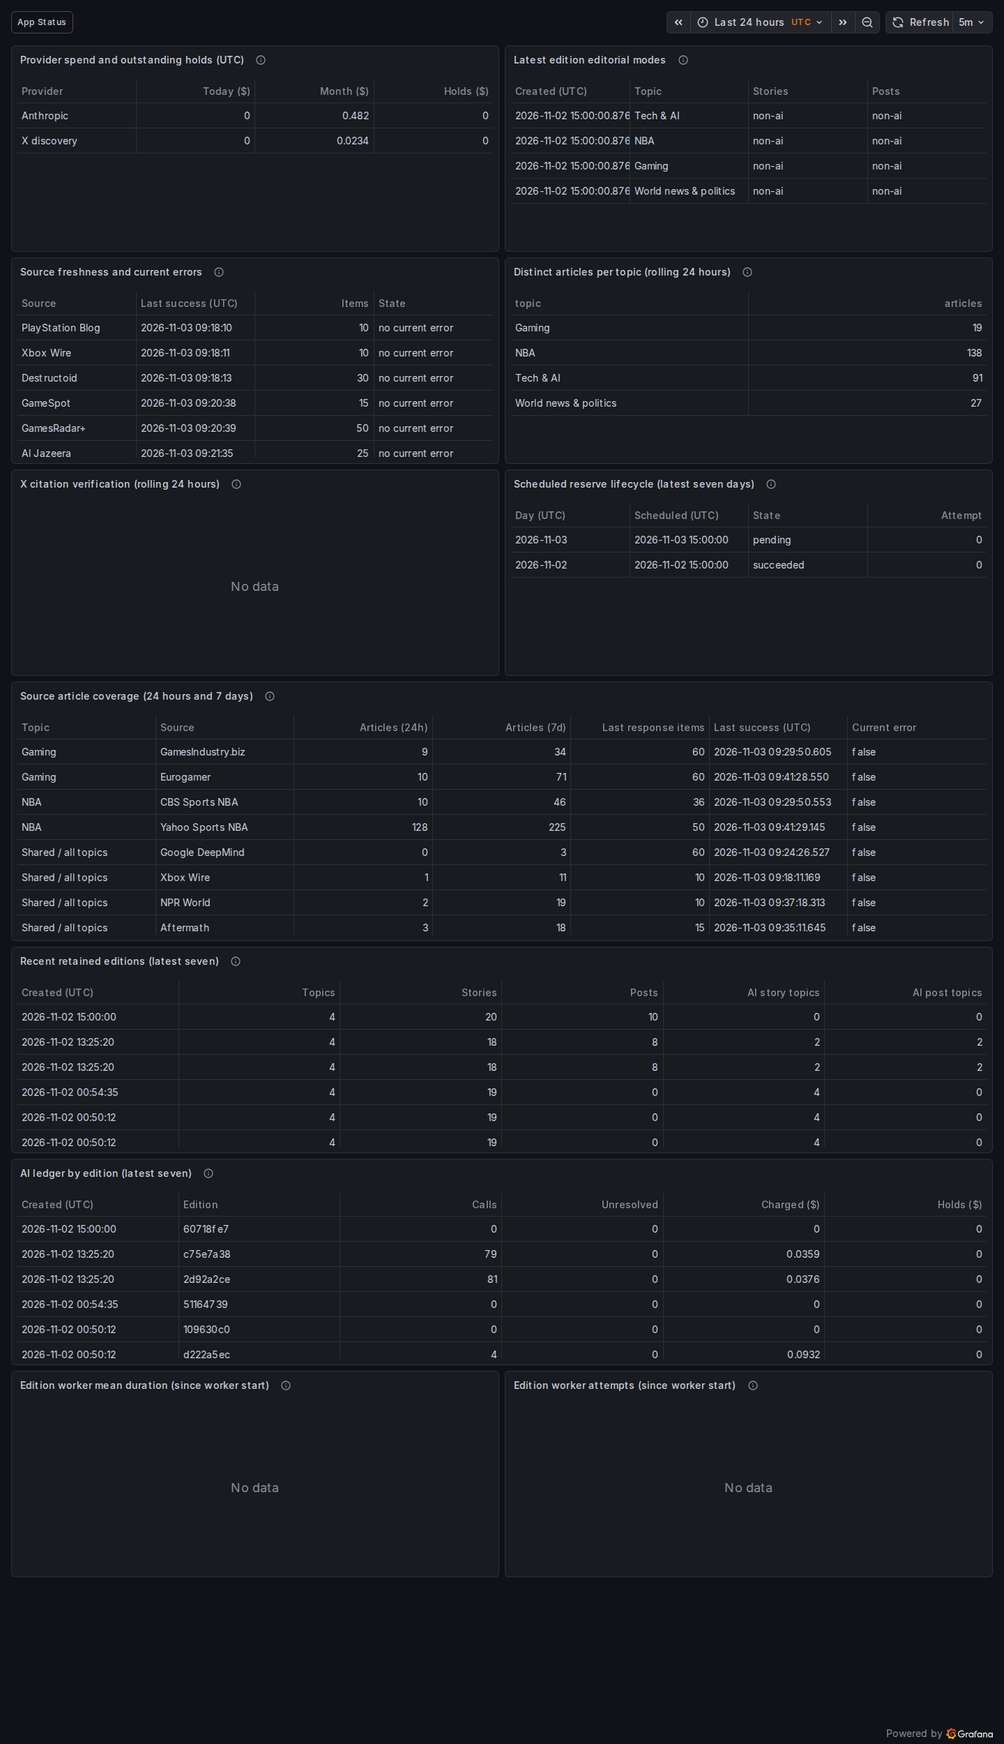
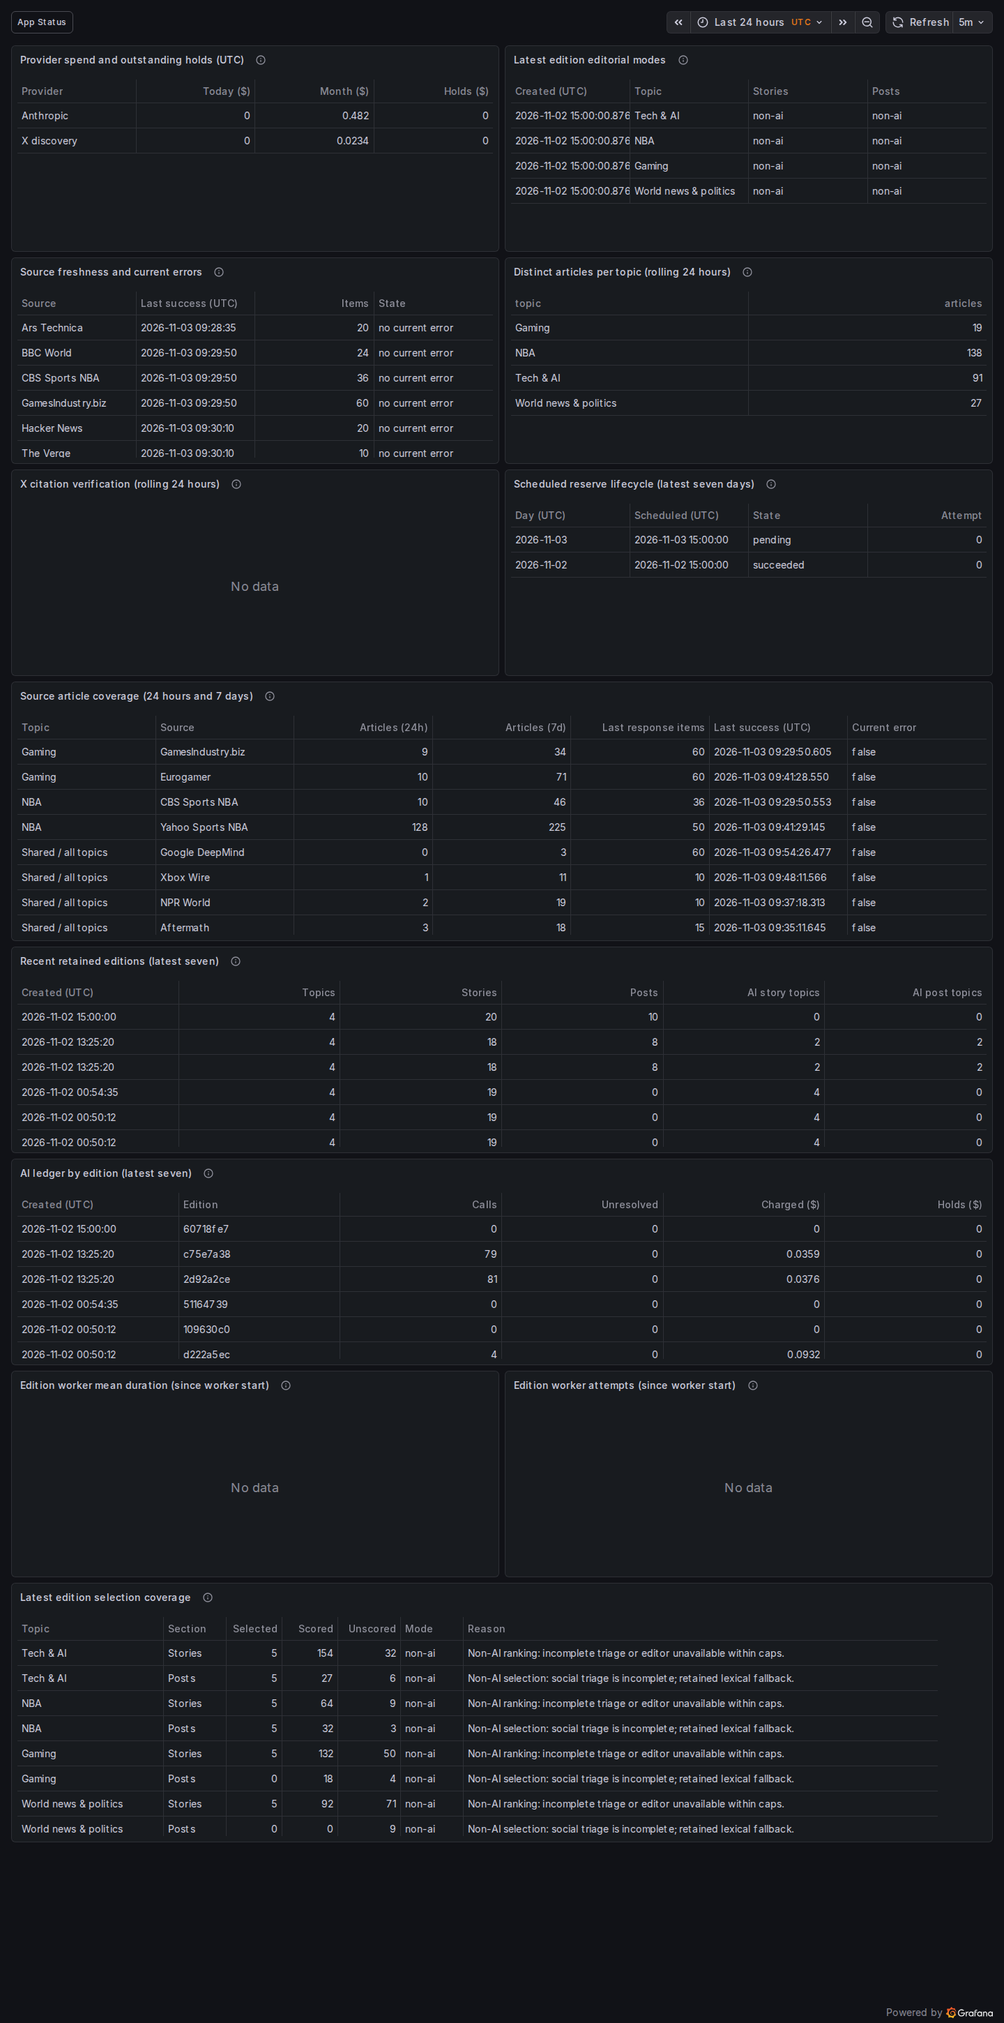
Show retained edition selection coverage in Product dashboard

diff --git a/scripts/lib/check-grafana.ts b/scripts/lib/check-grafana.ts
@@ -249,7 +249,7 @@ export async function checkGrafana() {
         width: 1440,
         height:
           dashboard.uid === 'nd-product'
-            ? 2500
+            ? 2900
             : ['nd-runtime', 'nd-redis'].includes(dashboard.uid)
               ? 2100
               : 1100,
@@ -286,6 +286,9 @@ export async function checkGrafana() {
           'Articles (7d)',
           'AI story topics',
           'Charged ($)',
+          'Scored',
+          'Unscored',
+          'Reason',
         ]) {
           const column = page.getByRole('columnheader', { name, exact: true });
           await column.scrollIntoViewIfNeeded();
@@ -425,6 +428,44 @@ export async function checkGrafana() {
     await page.waitForTimeout(1000);
     await page.screenshot({
       path: 'docs/screenshots/grafana-product-timing-mobile.png',
+    });
+    for (let attempt = 0; attempt < 12; attempt++) {
+      if (
+        await page
+          .getByRole('heading', {
+            name: 'Latest edition selection coverage',
+            exact: true,
+          })
+          .count()
+      )
+        break;
+      await page.mouse.wheel(0, 500);
+      await page.waitForTimeout(300);
+    }
+    const selection = page.getByRole('heading', {
+      name: 'Latest edition selection coverage',
+      exact: true,
+    });
+    await selection.scrollIntoViewIfNeeded();
+    await selection.evaluate((node) => node.scrollIntoView({ block: 'start' }));
+    await page.evaluate(() => {
+      for (const element of document.querySelectorAll<HTMLElement>('div')) {
+        if (
+          element.scrollWidth > element.clientWidth &&
+          element.clientWidth > 200
+        )
+          element.scrollLeft = 280;
+      }
+    });
+    await page.waitForTimeout(1500);
+    assert.equal(
+      await page
+        .locator('[data-testid="data-testid Panel status error"]')
+        .count(),
+      0,
+    );
+    await page.screenshot({
+      path: 'docs/screenshots/grafana-product-selection-mobile.png',
     });
     await page.goto(`${base}/d/nd-database?kiosk`, {
       waitUntil: 'networkidle',

diff --git a/PROGRESS.md b/PROGRESS.md
@@ -1,18 +1,8 @@
 # Progress
 
-Archived: [iteration 364](docs/progress-archive/2026-11-03-iteration-364.md), [iteration 363](docs/progress-archive/2026-11-03-iteration-363.md), [iteration 362](docs/progress-archive/2026-11-03-iteration-362.md), [iteration 361](docs/progress-archive/2026-11-03-iteration-361.md), [iteration 360](docs/progress-archive/2026-11-03-iteration-360.md), [iteration 359](docs/progress-archive/2026-11-03-iteration-359.md), [iteration 357](docs/progress-archive/2026-11-03-iteration-357.md), [iteration 356](docs/progress-archive/2026-11-03-iteration-356.md), [iteration 355](docs/progress-archive/2026-11-03-iteration-355.md), [iteration 354](docs/progress-archive/2026-11-03-iteration-354.md), [iteration 353](docs/progress-archive/2026-11-03-iteration-353.md), [iteration 352](docs/progress-archive/2026-11-03-iteration-352.md), [iteration 351](docs/progress-archive/2026-11-03-iteration-351.md), [iteration 350](docs/progress-archive/2026-11-03-iteration-350.md), [iteration 349](docs/progress-archive/2026-11-03-iteration-349.md), [iteration 348](docs/progress-archive/2026-11-03-iteration-348.md), [iteration 347](docs/progress-archive/2026-11-03-iteration-347.md), [iteration 346](docs/progress-archive/2026-11-03-iteration-346.md), [iteration 345](docs/progress-archive/2026-11-03-iteration-345.md), [iteration 344](docs/progress-archive/2026-11-03-iteration-344.md), [iteration 343](docs/progress-archive/2026-11-03-iteration-343.md), [iteration 342](docs/progress-archive/2026-11-03-iteration-342.md), [iteration 341](docs/progress-archive/2026-11-03-iteration-341.md), [iteration 340](docs/progress-archive/2026-11-03-iteration-340.md), [iteration 338](docs/progress-archive/2026-11-03-iteration-338.md), [iteration 337](docs/progress-archive/2026-11-03-iteration-337.md), [iteration 336](docs/progress-archive/2026-11-03-iteration-336.md), [iteration 335](docs/progress-archive/2026-11-03-iteration-335.md), [iteration 334](docs/progress-archive/2026-11-03-iteration-334.md), [iteration 332](docs/progress-archive/2026-11-03-iteration-332.md), [iteration 331](docs/progress-archive/2026-11-03-iteration-331.md), [iteration 330](docs/progress-archive/2026-11-03-iteration-330.md), [iteration 329](docs/progress-archive/2026-11-03-iteration-329.md), [iteration 328](docs/progress-archive/2026-11-03-iteration-328.md), [iteration 327](docs/progress-archive/2026-11-03-iteration-327.md), [iteration 326](docs/progress-archive/2026-11-03-iteration-326.md), [iteration 325](docs/progress-archive/2026-11-03-iteration-325.md), [iteration 324](docs/progress-archive/2026-11-03-iteration-324.md), [iteration 321](docs/progress-archive/2026-11-03-iteration-321.md), [iteration 320](docs/progress-archive/2026-11-03-iteration-320.md), [iteration 319](docs/progress-archive/2026-11-03-iteration-319.md), [iterations 317–318](docs/progress-archive/2026-11-03-iterations-317-318.md), [iterations 315–316](docs/progress-archive/2026-11-03-iterations-315-316.md), [iterations 313–314](docs/progress-archive/2026-11-03-iterations-313-314.md), [iterations 311–312](docs/progress-archive/2026-11-03-iterations-311-312.md), [iterations 309–310](docs/progress-archive/2026-11-03-iterations-309-310.md), [iterations 307–308](docs/progress-archive/2026-11-03-iterations-307-308.md), [iterations 305–306](docs/progress-archive/2026-11-03-iterations-305-306.md), [iterations 303–304](docs/progress-archive/2026-11-03-iterations-303-304.md), [iteration 302](docs/progress-archive/2026-11-03-iteration-302.md), [iteration 301](docs/progress-archive/2026-11-03-iteration-301.md), [iteration 300](docs/progress-archive/2026-11-03-iteration-300.md), [iteration 299](docs/progress-archive/2026-11-03-iteration-299.md), [iteration 298](docs/progress-archive/2026-11-03-iteration-298.md), [iteration 297](docs/progress-archive/2026-11-03-iteration-297.md), [iteration 296](docs/progress-archive/2026-11-03-iteration-296.md), [iteration 295](docs/progress-archive/2026-11-03-iteration-295.md), [iteration 294](docs/progress-archive/2026-11-03-iteration-294.md), [iteration 293](docs/progress-archive/2026-11-03-iteration-293.md), [iteration 292](docs/progress-archive/2026-11-03-iteration-292.md), [iteration 291](docs/progress-archive/2026-11-03-iteration-291.md), [iteration 290](docs/progress-archive/2026-11-03-iteration-290.md), [iteration 288](docs/progress-archive/2026-11-03-iteration-288.md), [iteration 285](docs/progress-archive/2026-11-03-iteration-285.md), [286](docs/progress-archive/2026-11-03-iteration-286.md).
+Archived: [iteration 365](docs/progress-archive/2026-11-03-iteration-365.md), [iteration 364](docs/progress-archive/2026-11-03-iteration-364.md), [iteration 363](docs/progress-archive/2026-11-03-iteration-363.md), [iteration 362](docs/progress-archive/2026-11-03-iteration-362.md), [iteration 361](docs/progress-archive/2026-11-03-iteration-361.md), [iteration 360](docs/progress-archive/2026-11-03-iteration-360.md), [iteration 359](docs/progress-archive/2026-11-03-iteration-359.md), [iteration 357](docs/progress-archive/2026-11-03-iteration-357.md), [iteration 356](docs/progress-archive/2026-11-03-iteration-356.md), [iteration 355](docs/progress-archive/2026-11-03-iteration-355.md), [iteration 354](docs/progress-archive/2026-11-03-iteration-354.md), [iteration 353](docs/progress-archive/2026-11-03-iteration-353.md), [iteration 352](docs/progress-archive/2026-11-03-iteration-352.md), [iteration 351](docs/progress-archive/2026-11-03-iteration-351.md), [iteration 350](docs/progress-archive/2026-11-03-iteration-350.md), [iteration 349](docs/progress-archive/2026-11-03-iteration-349.md), [iteration 348](docs/progress-archive/2026-11-03-iteration-348.md), [iteration 347](docs/progress-archive/2026-11-03-iteration-347.md), [iteration 346](docs/progress-archive/2026-11-03-iteration-346.md), [iteration 345](docs/progress-archive/2026-11-03-iteration-345.md), [iteration 344](docs/progress-archive/2026-11-03-iteration-344.md), [iteration 343](docs/progress-archive/2026-11-03-iteration-343.md), [iteration 342](docs/progress-archive/2026-11-03-iteration-342.md), [iteration 341](docs/progress-archive/2026-11-03-iteration-341.md), [iteration 340](docs/progress-archive/2026-11-03-iteration-340.md), [iteration 338](docs/progress-archive/2026-11-03-iteration-338.md), [iteration 337](docs/progress-archive/2026-11-03-iteration-337.md), [iteration 336](docs/progress-archive/2026-11-03-iteration-336.md), [iteration 335](docs/progress-archive/2026-11-03-iteration-335.md), [iteration 334](docs/progress-archive/2026-11-03-iteration-334.md), [iteration 332](docs/progress-archive/2026-11-03-iteration-332.md), [iteration 331](docs/progress-archive/2026-11-03-iteration-331.md), [iteration 330](docs/progress-archive/2026-11-03-iteration-330.md), [iteration 329](docs/progress-archive/2026-11-03-iteration-329.md), [iteration 328](docs/progress-archive/2026-11-03-iteration-328.md), [iteration 327](docs/progress-archive/2026-11-03-iteration-327.md), [iteration 326](docs/progress-archive/2026-11-03-iteration-326.md), [iteration 325](docs/progress-archive/2026-11-03-iteration-325.md), [iteration 324](docs/progress-archive/2026-11-03-iteration-324.md), [iteration 321](docs/progress-archive/2026-11-03-iteration-321.md), [iteration 320](docs/progress-archive/2026-11-03-iteration-320.md), [iteration 319](docs/progress-archive/2026-11-03-iteration-319.md), [iterations 317–318](docs/progress-archive/2026-11-03-iterations-317-318.md), [iterations 315–316](docs/progress-archive/2026-11-03-iterations-315-316.md), [iterations 313–314](docs/progress-archive/2026-11-03-iterations-313-314.md), [iterations 311–312](docs/progress-archive/2026-11-03-iterations-311-312.md), [iterations 309–310](docs/progress-archive/2026-11-03-iterations-309-310.md), [iterations 307–308](docs/progress-archive/2026-11-03-iterations-307-308.md), [iterations 305–306](docs/progress-archive/2026-11-03-iterations-305-306.md), [iterations 303–304](docs/progress-archive/2026-11-03-iterations-303-304.md), [iteration 302](docs/progress-archive/2026-11-03-iteration-302.md), [iteration 301](docs/progress-archive/2026-11-03-iteration-301.md), [iteration 300](docs/progress-archive/2026-11-03-iteration-300.md), [iteration 299](docs/progress-archive/2026-11-03-iteration-299.md), [iteration 298](docs/progress-archive/2026-11-03-iteration-298.md), [iteration 297](docs/progress-archive/2026-11-03-iteration-297.md), [iteration 296](docs/progress-archive/2026-11-03-iteration-296.md), [iteration 295](docs/progress-archive/2026-11-03-iteration-295.md), [iteration 294](docs/progress-archive/2026-11-03-iteration-294.md), [iteration 293](docs/progress-archive/2026-11-03-iteration-293.md), [iteration 292](docs/progress-archive/2026-11-03-iteration-292.md), [iteration 291](docs/progress-archive/2026-11-03-iteration-291.md), [iteration 290](docs/progress-archive/2026-11-03-iteration-290.md), [iteration 288](docs/progress-archive/2026-11-03-iteration-288.md), [iteration 285](docs/progress-archive/2026-11-03-iteration-285.md), [286](docs/progress-archive/2026-11-03-iteration-286.md).
 
 Earlier entries: [iterations 269–270](docs/progress-archive/2026-11-03-iterations-269-270.md), [271–272](docs/progress-archive/2026-11-03-iterations-271-272.md), [273–274](docs/progress-archive/2026-11-03-iterations-273-274.md), [275–276](docs/progress-archive/2026-11-03-iterations-275-276.md), [277–278](docs/progress-archive/2026-11-03-iterations-277-278.md), [279–280](docs/progress-archive/2026-11-03-iterations-279-280.md), [282](docs/progress-archive/2026-11-03-iteration-282.md), [283](docs/progress-archive/2026-11-03-iteration-283.md), [284](docs/progress-archive/2026-11-03-iteration-284.md).
-
-## 2026-11-03: iteration 365 — initial Grafana dashboards
-
-- Started clean on main; no leftover work. Four app units/health green, no current source errors or failed digest jobs; two retained ingestion failures have recovered sources. Nov 3 scheduled evidence remains pending.
-- Advanced O6: SHA-256-pinned Grafana 12.4.14, loopback-only private `/grafana/`, repository-provisioned local metrics datasource and Host/Services/HTTP/Jobs dashboards (19 panels). Anonymous Viewer permissions behind exe.dev login; no admin creation, login/signup, telemetry, updates, plugin installation, live websocket or app DB credentials.
-- Grafana 13.3.0 exceeded the initial 180 MiB ceiling and later failed readiness; replaced only its fresh settings/binaries with patched 12.4.14. Final unit uses 256 MiB/2% CPU, 160 MiB Go target and low priority; healthy with no restarts. Removed temporary older binaries/state.
-- Added read-only `--verify-grafana`: permissions/provisioning, every panel query, required live samples, browser errors and desktop/mobile screenshots. Fixed mobile canvas capture timing; visually inspected all five screenshots. Updated handbook/plan/TASKS; archived iterations 353–354. Remaining O6 dashboards stay open.
-- Verification: proxy test 1/1; `pnpm format`, `pnpm lint:fix`, `pnpm check` (232 unit/172 integration), `pnpm build`, final typecheck, handbook 09, shell syntax and `git diff --check` passed. Final runtime `--verify-grafana --verify-o4` passed: 19/19 panels populated, six scrape targets healthy.
-- Restarted API for forwarding; installed Grafana and refreshed unit collector. Worker/docs/schema/DB/Redis untouched. Health green; retained real edition four topics/20 stories/10 posts. Observability daemons ~350 MiB RAM/~2.0% combined startup-average CPU; binaries/data ~1.2 GiB allocated.
-- No paid calls, Reddit requests or production content/spending-setting changes. Next: scheduled evidence/acks first; otherwise remaining O6 dashboards/data connections. Production activation stays gated.
 
 ## 2026-11-03: iteration 366 — Errors and logs dashboard
 
@@ -111,4 +101,14 @@ Earlier entries: [iterations 269–270](docs/progress-archive/2026-11-03-iterati
 - Verification: `pnpm format`, `pnpm lint:fix`, `pnpm check` (232 unit/172 integration, exit 0), `pnpm build`, handbook 09 and `git diff --check` passed. Restricted-role query returned all 32 sources, 25 shared, one quiet in 24 hours, no seven-day/24-hour count inversions.
 - `check-observability.ts --verify-grafana --verify-o4`: 61 valid queries/56 populated, seven healthy targets. Desktop/mobile screenshots inspected; mobile capture aligned to new count columns. Discarded unrelated regenerated captures.
 - Dashboard copied to provisioned directory and hot-reloaded; no service code/config restart needed. Latest retained real edition remains four topics, 20 stories/10 posts. No paid calls, Reddit requests or production content/spending-setting changes.
+- Next: scheduled evidence/acks first; otherwise remaining O6 Agent/Product caps or O7 Postgres collection. Production activation stays gated.
+
+## 2026-11-03: iteration 377 — edition selection coverage
+
+- Started clean on main; no leftover work. Four app services/health green, 32 sources without current errors and no failed digest runs. Nov 3 15:00 UTC evidence remains pending.
+- Product adds latest-edition story/post selections, stored triage/unscored counts, editorial modes and fallback reasons per topic. Missing metadata stays NULL; counts do not imply fresh paid calls or all rejected candidates. Existing reader grants only; no production behavior changes.
+- Restricted-role SQL verified eight live rows and 20 stories/10 posts; an inline synthetic legacy snapshot verified missing metadata remains NULL. Updated handbook/plan/TASKS; archived iteration 365.
+- Verification: `pnpm format`, `pnpm lint:fix`, `pnpm check` (232 unit/172 integration), `pnpm build`, handbook 09 and `git diff --check` passed. Command sessions ended with signal 143 during long checks; final check ran in a transient systemd unit to obtain a complete exit status.
+- `check-observability.ts --verify-grafana --verify-o4`: 62 valid queries/57 populated, seven healthy targets. Desktop/mobile screenshots inspected; widened reason column and scrolled mobile counts explicitly. Discarded unrelated regenerated captures.
+- Dashboard hot-reloaded; app/DB/Redis services needed no restart. No paid calls, Reddit requests or production content/spending-setting changes.
 - Next: scheduled evidence/acks first; otherwise remaining O6 Agent/Product caps or O7 Postgres collection. Production activation stays gated.

diff --git a/TASKS.md b/TASKS.md
@@ -70,4 +70,4 @@ M0–M2; M3/M6/M7 foundations implemented.
 - [ ] STEERING 2a (lower priority): finish repository/HTTP characterization before ORM. Isolated DB/Redis, migrations, HTTP/worker and synthetic-AI goldens implemented (183–270); gaps: [database verification](docs/DATABASE-VERIFICATION.md). No live DB; finish 2a before ORM. Recorded-response golden open.
 - [ ] STEERING 2b (only after 2a is green): record Drizzle decision/schema parity, back up live DB, gradually replace raw SQL behind ports and enforce boundaries.
 
-- [ ] STEERING 24 (background): [observability plan](docs/observability-plan.md), only while product work is blocked. O1–O5 verified (354–364): private runtime, HTTP, external-call, job-attempt and queue-state/schedule metrics scraped. O6 advanced (365–373): private Grafana Host/Services/HTTP/Jobs, Errors/logs and read-only Product/Database dashboards, source coverage, edition history, attributed AI costs/holds and app runtime memory/heap/descriptors/GC/CPU/active work/event-loop delay; Redis shipped (374); Product worker attempt timing/counts shipped (375); source coverage adds topic/seven-day context (376). Agent, Database top queries (O7) and Product caps/individual run timing remain. Scheduled evidence/acks take priority; preserve caps and run protection.
+- [ ] STEERING 24 (background): [observability plan](docs/observability-plan.md), only while product work is blocked. O1–O5 verified (354–364): private runtime, HTTP, external-call, job-attempt and queue-state/schedule metrics scraped. O6 advanced (365–373): private Grafana Host/Services/HTTP/Jobs, Errors/logs and read-only Product/Database dashboards, source coverage, edition history, attributed AI costs/holds and app runtime memory/heap/descriptors/GC/CPU/active work/event-loop delay; Redis shipped (374); Product worker attempt timing/counts shipped (375); source coverage adds topic/seven-day context (376); latest-edition selection/triage/unscored coverage and reasons shipped (377). Agent, Database top queries (O7) and Product caps/individual run timing remain. Scheduled evidence/acks take priority; preserve caps and run protection.

diff --git a/docs/progress-archive/2026-11-03-iteration-365.md b/docs/progress-archive/2026-11-03-iteration-365.md
@@ -1,0 +1,11 @@
+# Progress archive
+
+## 2026-11-03: iteration 365 — initial Grafana dashboards
+
+- Started clean on main; no leftover work. Four app units/health green, no current source errors or failed digest jobs; two retained ingestion failures have recovered sources. Nov 3 scheduled evidence remains pending.
+- Advanced O6: SHA-256-pinned Grafana 12.4.14, loopback-only private `/grafana/`, repository-provisioned local metrics datasource and Host/Services/HTTP/Jobs dashboards (19 panels). Anonymous Viewer permissions behind exe.dev login; no admin creation, login/signup, telemetry, updates, plugin installation, live websocket or app DB credentials.
+- Grafana 13.3.0 exceeded the initial 180 MiB ceiling and later failed readiness; replaced only its fresh settings/binaries with patched 12.4.14. Final unit uses 256 MiB/2% CPU, 160 MiB Go target and low priority; healthy with no restarts. Removed temporary older binaries/state.
+- Added read-only `--verify-grafana`: permissions/provisioning, every panel query, required live samples, browser errors and desktop/mobile screenshots. Fixed mobile canvas capture timing; visually inspected all five screenshots. Updated handbook/plan/TASKS; archived iterations 353–354. Remaining O6 dashboards stay open.
+- Verification: proxy test 1/1; `pnpm format`, `pnpm lint:fix`, `pnpm check` (232 unit/172 integration), `pnpm build`, final typecheck, handbook 09, shell syntax and `git diff --check` passed. Final runtime `--verify-grafana --verify-o4` passed: 19/19 panels populated, six scrape targets healthy.
+- Restarted API for forwarding; installed Grafana and refreshed unit collector. Worker/docs/schema/DB/Redis untouched. Health green; retained real edition four topics/20 stories/10 posts. Observability daemons ~350 MiB RAM/~2.0% combined startup-average CPU; binaries/data ~1.2 GiB allocated.
+- No paid calls, Reddit requests or production content/spending-setting changes. Next: scheduled evidence/acks first; otherwise remaining O6 dashboards/data connections. Production activation stays gated.

diff --git a/docs/observability-plan.md b/docs/observability-plan.md
@@ -205,6 +205,8 @@ only when its check passes.
 
   - Iteration 376: Product source coverage adds topic names and inclusive rolling seven-day counts alongside 24-hour counts, including quiet sources. Uses existing reader grants; no collection or production changes.
 
+- Iteration 377: Product adds latest-edition story/post selection counts, stored triage/unscored coverage, modes and reasons per topic. Missing metadata remains blank; no fresh-call or rejected-candidate inference. Existing restricted grants only.
+
 - [ ] **O7 Database and Redis.**
   - Iteration 374: Redis collector and O6 Redis dashboard shipped. Pinned/checksummed redis_exporter v1.96.0, loopback INFO-only, 30-second scraping, 32 MB/2% CPU ceiling; no key scanning, app or Redis restart. Eight panels and desktop/mobile checked. Postgres exporter/top queries remain open.
   - **Scope:** postgres_exporter, `pg_stat_statements`, slow-query log and

diff --git a/docs/handbook/01-app/09-observability.md b/docs/handbook/01-app/09-observability.md
@@ -258,6 +258,8 @@ and unresolved holds. Zero calls may mean cached or fallback work. It excludes X
 discovery and unpublished attempts, so it is not total scheduled-run spend.
 Seven-day article counts include the last 24 hours and use publication time, not discovery time.
 Source response counts include duplicates and older items; they are not new-item yield.
+The latest edition selection table shows story/post picks, stored triage and unscored counts, modes and reasons per topic. Missing editorial metadata stays blank; triage can be cached, and unscored IDs are not all rejected candidates.
+
 Edition creation time is not worker duration. These table windows are explicit and ignore the Grafana time picker.
 AI mode can use cached work; verified citations are not incremental discovery yield.
 Product also graphs mean worker attempt duration and settled
